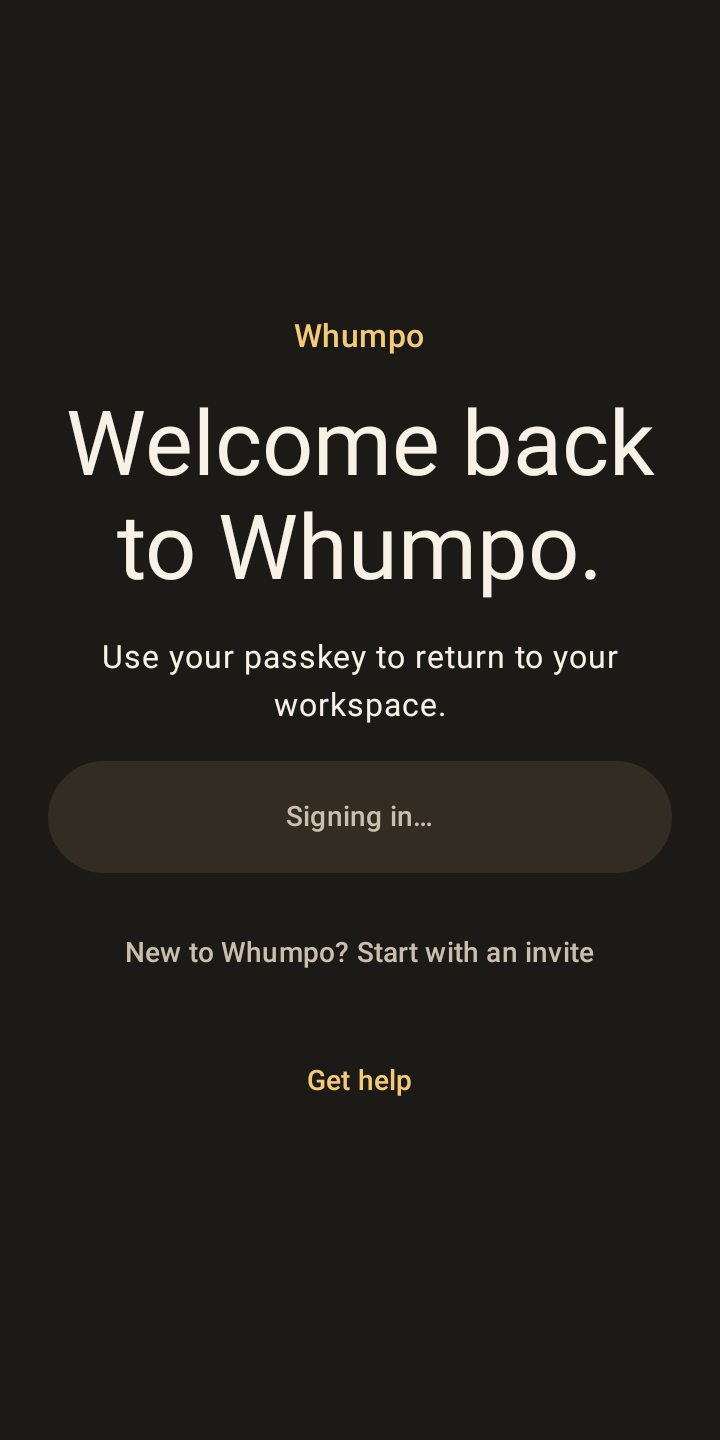
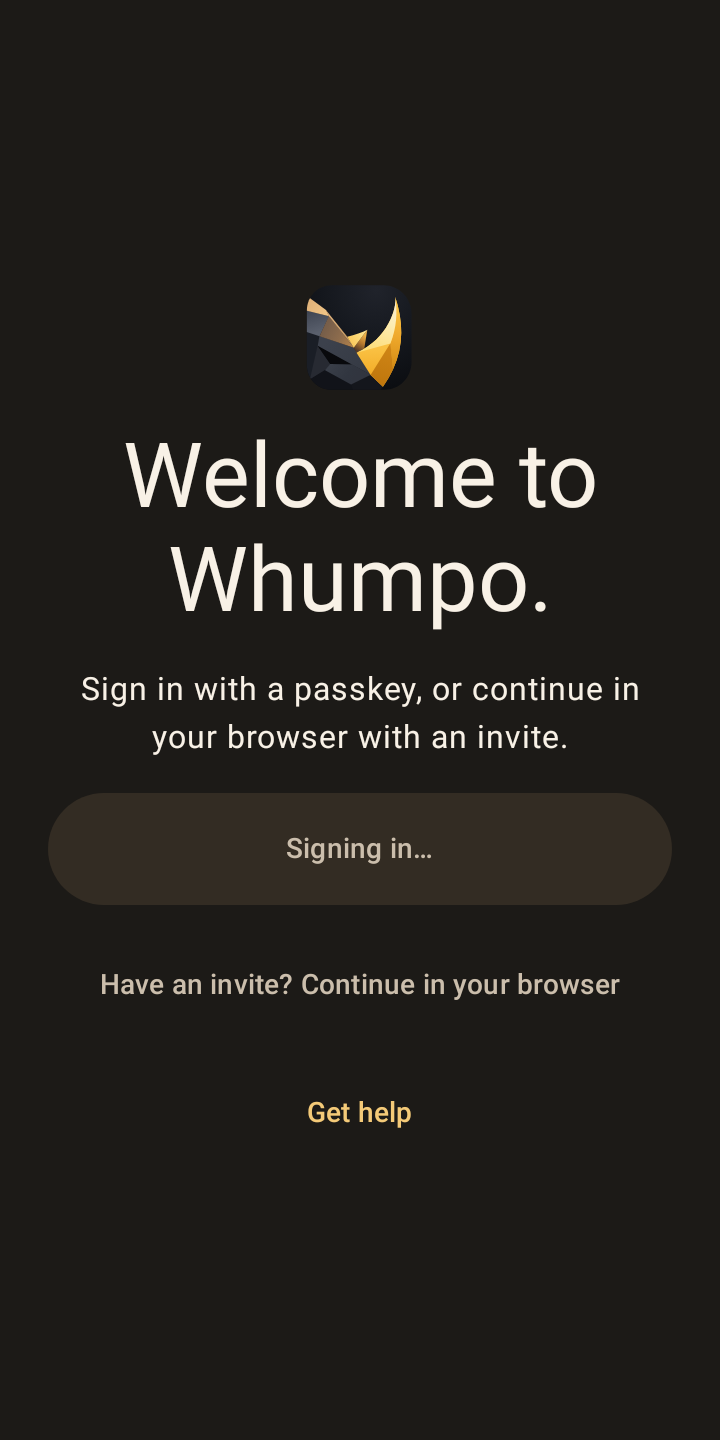
Improve Android welcome and invite retry (#66)

diff --git a/android/shared/src/jvmCommonTest/kotlin/com/whumpo/core/auth/AuthControllerTest.kt b/android/shared/src/jvmCommonTest/kotlin/com/whumpo/core/auth/AuthControllerTest.kt
@@ -16,12 +16,17 @@ import java.io.IOException
 import java.time.Instant
 import java.util.concurrent.CopyOnWriteArrayList
 import kotlinx.coroutines.CompletableDeferred
+import kotlinx.coroutines.Job
 import kotlinx.coroutines.Dispatchers
 import kotlinx.coroutines.ExperimentalCoroutinesApi
 import kotlinx.coroutines.NonCancellable
 import kotlinx.coroutines.launch
 import kotlinx.coroutines.delay
 import kotlinx.coroutines.withContext
+import kotlin.coroutines.Continuation
+import kotlin.coroutines.CoroutineContext
+import kotlin.coroutines.startCoroutine
+import kotlin.coroutines.cancellation.CancellationException
 import kotlinx.coroutines.flow.first
 import kotlinx.coroutines.test.TestScope
 import kotlinx.coroutines.test.UnconfinedTestDispatcher
@@ -103,6 +108,8 @@ class AuthControllerTest {
 
         /** path -> replacement status and body; `null` makes the request fail like a dropped connection. */
         val overrides = mutableMapOf<String, Pair<Int, String>?>()
+        var handoffStartGate: CompletableDeferred<Unit>? = null
+        var handoffStartEntered: CompletableDeferred<Unit>? = null
         var bootstrapGate: CompletableDeferred<Unit>? = null
         var bootstrapEntered: CompletableDeferred<Unit>? = null
         val store = AccountStateStore(dir, box)
@@ -115,6 +122,10 @@ class AuthControllerTest {
                 calls += Call(path, request.headers[HttpHeaders.Authorization], request.body.toByteArray().decodeToString())
                 val override = if (overrides.containsKey(path)) overrides[path] ?: throw IOException("connection dropped") else null
                 val (status, body) = override ?: (200 to checkNotNull(ok[path]) { "unexpected $path" })
+                if (path == "/session/handoff/start") {
+                    handoffStartEntered?.complete(Unit)
+                    withContext(NonCancellable) { handoffStartGate?.await() }
+                }
                 if (path == "/bootstrap") {
                     val gate = bootstrapGate
                     bootstrapEntered?.complete(Unit)
@@ -646,6 +657,103 @@ class AuthControllerTest {
         auth.startInvite()
         await(AuthState.WaitingForBrowser())
         assertEquals("signup", body("/session/handoff/start")["purpose"]!!.jsonPrimitive.content)
+    }
+
+    @Test
+    fun aGenericInviteStartFailureOffersAnExplicitFreshRetry() = test {
+        overrides["/session/handoff/start"] = 500 to err("gateway_failure")
+        auth.startInvite()
+        await(AuthState.SignedOut(AuthProblem.InviteStartFailed))
+        assertTrue(browser.opened.isEmpty())
+
+        val firstStart = body("/session/handoff/start")
+        overrides.remove("/session/handoff/start")
+        auth.startInvite()
+        await(AuthState.WaitingForBrowser())
+
+        val starts = calls.filter { it.path == "/session/handoff/start" }
+        assertEquals(2, starts.size)
+        val retry = Json.parseToJsonElement(starts.last().body).jsonObject
+        assertEquals("signup", retry["purpose"]!!.jsonPrimitive.content)
+        assertFalse(firstStart["state"] == retry["state"])
+        assertFalse(firstStart["codeChallenge"] == retry["codeChallenge"])
+        assertEquals(listOf("https://whumpo.com$browserPath"), browser.opened.toList())
+    }
+
+    @Test
+    fun aGenericSigninHandoffFailureKeepsTheExistingCopy() = test {
+        overrides["/session/handoff/start"] = 500 to err("gateway_failure")
+        auth.signInWithBrowser()
+        await(AuthState.SignedOut(AuthProblem.Generic))
+        assertTrue(browser.opened.isEmpty())
+    }
+
+    @Test
+    fun inviteStartKeepsKnownNetworkAndAuthorityFailuresDistinct() = test {
+        overrides["/session/handoff/start"] = null
+        auth.startInvite()
+        await(AuthState.SignedOut(AuthProblem.Network))
+
+        overrides["/session/handoff/start"] = 429 to err("rate_limited", "\"retryAfterSeconds\":60")
+        auth.startInvite()
+        await(AuthState.SignedOut(AuthProblem.RateLimited))
+
+        overrides["/session/handoff/start"] = 503 to err("unavailable")
+        auth.startInvite()
+        await(AuthState.SignedOut(AuthProblem.ServiceUnavailable))
+
+        overrides["/session/handoff/start"] = 401 to err("proof_required", "\"proof\":\"signin\"")
+        auth.startInvite()
+        await(AuthState.SignedOut(AuthProblem.Rejected))
+
+        overrides["/session/handoff/start"] = 403 to err("identity_incomplete", "\"next\":\"browser\"")
+        auth.startInvite()
+        await(AuthState.FinishSetup(canOpen = true))
+
+        overrides["/session/handoff/start"] = 426 to err("client_update_required")
+        auth.startInvite()
+        await(AuthState.UpdateRequired)
+
+        overrides["/session/handoff/start"] = 409 to err("identity_changed")
+        auth.startInvite()
+        await(AuthState.SignedOut(AuthProblem.Generic))
+        assertTrue(browser.opened.isEmpty())
+    }
+
+    @Test
+    fun aLateGenericInviteFailureCannotReplaceASignedOutState() = test {
+        overrides["/session/handoff/start"] = 500 to err("gateway_failure")
+        handoffStartGate = CompletableDeferred()
+        handoffStartEntered = CompletableDeferred()
+
+        auth.startInvite()
+        handoffStartEntered!!.await()
+        withContext(Dispatchers.Default) { auth.signOutNow() }
+        assertEquals(AuthState.SignedOut(), auth.state.value)
+
+        handoffStartGate!!.complete(Unit)
+        settle()
+        assertEquals(AuthState.SignedOut(), auth.state.value)
+        assertTrue(browser.opened.isEmpty())
+    }
+
+    @Test
+    fun aCancelledInviteErrorCannotPublishIntoTheCurrentControllerState() = test {
+        started()
+        val cancelledJob = Job().apply { cancel() }
+        var completion: Result<Unit>? = null
+        val publishFailure: suspend () -> Unit = { auth.publishInviteStartFailure(AuthProblem.InviteStartFailed) }
+        publishFailure.startCoroutine(
+            object : Continuation<Unit> {
+                override val context: CoroutineContext = cancelledJob
+                override fun resumeWith(result: Result<Unit>) {
+                    completion = result
+                }
+            },
+        )
+
+        assertTrue(completion?.exceptionOrNull() is CancellationException)
+        assertEquals(AuthState.SignedOut(), auth.state.value)
     }
 
     @Test

diff --git a/android/shared/src/commonMain/kotlin/com/whumpo/android/ui/auth/AuthScreens.kt b/android/shared/src/commonMain/kotlin/com/whumpo/android/ui/auth/AuthScreens.kt
@@ -15,6 +15,7 @@ import androidx.compose.foundation.layout.widthIn
 import androidx.compose.foundation.layout.windowInsetsPadding
 import androidx.compose.foundation.rememberScrollState
 import androidx.compose.foundation.verticalScroll
+import androidx.compose.foundation.Image
 import androidx.compose.material3.Card
 import androidx.compose.material3.CardDefaults
 import androidx.compose.material3.Icon
@@ -44,6 +45,9 @@ import com.whumpo.android.ui.theme.WhumpoSecondaryButton
 import com.whumpo.core.auth.AuthActions
 import com.whumpo.core.auth.AuthProblem
 import com.whumpo.core.auth.AuthState
+import com.whumpo.shared.resources.Res
+import com.whumpo.shared.resources.whumpo_horn_mark
+import org.jetbrains.compose.resources.painterResource
 
 private val Target = 56.dp
 private val QuietTarget = 48.dp
@@ -75,9 +79,13 @@ fun WelcomeScreen(state: AuthState.SignedOut, actions: AuthActions, modifier: Mo
     WhumpoEntryTheme(darkTheme = dark) {
         Surface(Modifier.fillMaxSize()) {
             AuthPage(modifier.testTag("auth-welcome")) {
-                Text("Whumpo", style = MaterialTheme.typography.titleMedium, color = MaterialTheme.colorScheme.primary)
-                Title("Welcome back to Whumpo.", display = true)
-                Body("Use your passkey to return to your workspace.")
+                Image(
+                    painter = painterResource(Res.drawable.whumpo_horn_mark),
+                    contentDescription = null,
+                    modifier = Modifier.size(56.dp).testTag("auth-brand-mark"),
+                )
+                Title("Welcome to Whumpo.", display = true)
+                Body("Sign in with a passkey, or continue in your browser with an invite.")
                 state.problem?.let { ProblemCard(it) }
                 WhumpoPrimaryButton(
                     onClick = actions::signInWithPasskey,
@@ -110,7 +118,7 @@ fun WelcomeScreen(state: AuthState.SignedOut, actions: AuthActions, modifier: Mo
                     onClick = actions::startInvite,
                     enabled = !state.busy,
                     modifier = Modifier.heightIn(min = QuietTarget).testTag("auth-invite"),
-                ) { Text("New to Whumpo? Start with an invite") }
+                ) { Text("Have an invite? Continue in your browser") }
                 WhumpoQuietButton(onClick = actions::openHelp, modifier = Modifier.heightIn(min = QuietTarget).testTag("auth-help")) {
                     Text("Get help")
                 }
@@ -243,6 +251,7 @@ internal fun problemCopy(problem: AuthProblem): Pair<String, String> = when (pro
     AuthProblem.HandoffFailed -> "The browser sign-in didn't finish." to "Nothing was changed. Start again."
     AuthProblem.NoBrowser -> "No browser could open." to "Nothing was changed. Install or enable a browser, then try again."
     AuthProblem.CredentialTooLarge -> "This passkey's response was too large to send." to "Nothing was changed. Try another passkey, or sign in through the browser."
+    AuthProblem.InviteStartFailed -> "We couldn't start your invite." to "Your account is unchanged. Try again to continue in your browser."
     AuthProblem.Generic -> "Something went wrong." to "Nothing was changed. Try again."
 }
 

diff --git a/android/shared/src/jvmCommonMain/kotlin/com/whumpo/core/auth/AuthController.kt b/android/shared/src/jvmCommonMain/kotlin/com/whumpo/core/auth/AuthController.kt
@@ -198,13 +198,26 @@ class AuthController(
 
     override fun startInvite() = launchStep {
         step.value = Step.Busy
-        startHandoff("signup")
+        startHandoff("signup", genericProblem = AuthProblem.InviteStartFailed)
     }
 
-    private suspend fun startHandoff(purpose: String) {
+    private suspend fun startHandoff(purpose: String, genericProblem: AuthProblem? = null) {
         val verifier = Pkce.newVerifier()
         val state = Pkce.newState()
-        val response = api.handoffStart(HandoffStartRequest(purpose, state, Pkce.challenge(verifier), RETURN_URI))
+        val response = try {
+            api.handoffStart(HandoffStartRequest(purpose, state, Pkce.challenge(verifier), RETURN_URI))
+        } catch (e: CancellationException) {
+            throw e
+        } catch (e: MobileApiException) {
+            if (genericProblem == null || e.isDistinctHandoffProblem()) throw e
+            publishInviteStartFailure(genericProblem)
+            return
+        } catch (e: Exception) {
+            if (genericProblem == null) throw e
+            currentCoroutineContext().ensureActive()
+            step.value = Step.Problem(genericProblem)
+            return
+        }
         currentCoroutineContext().ensureActive()
         val url = browserUrl(response.browserPath)
         if (url == null) {
@@ -389,6 +402,26 @@ class AuthController(
         is MobileApiException.Unavailable -> AuthProblem.ServiceUnavailable
         is MobileApiException.ProofRequired -> AuthProblem.Rejected
         else -> AuthProblem.Generic
+    }
+
+    /** Keep contract statuses that carry authentication, update, network, or service authority intact. */
+    private fun MobileApiException.isDistinctHandoffProblem(): Boolean = when (this) {
+        is MobileApiException.ClientUpdateRequired,
+        is MobileApiException.IdentityIncomplete,
+        is MobileApiException.OnboardingRequired,
+        is MobileApiException.IdentityChanged,
+        is MobileApiException.ProofRequired,
+        is MobileApiException.Transport,
+        is MobileApiException.RateLimited,
+        is MobileApiException.Unavailable,
+        -> true
+        else -> false
+    }
+
+    /** A generic invite error is only current while its launch step still owns this controller. */
+    internal suspend fun publishInviteStartFailure(problem: AuthProblem) {
+        currentCoroutineContext().ensureActive()
+        step.value = Step.Problem(problem)
     }
 
     private fun tooLarge(json: String) = json.toByteArray(Charsets.UTF_8).size > MAX_CREDENTIAL_BYTES

diff --git a/android/shared/src/androidHostTest/kotlin/com/whumpo/android/ui/AuthScreensTest.kt b/android/shared/src/androidHostTest/kotlin/com/whumpo/android/ui/AuthScreensTest.kt
@@ -56,13 +56,38 @@ class AuthScreensTest : RobolectricUiTest() {
     fun welcomeHasOneHeadingOnePrimaryAndQuietLinks() {
         val actions = RecordingActions()
         show(AuthState.SignedOut(), actions).use {
-            compose.onNode(isHeading() and hasText("Welcome back to Whumpo.")).assertIsDisplayed()
+            compose.onNodeWithTag("auth-brand-mark").assertIsDisplayed()
+            compose.onNode(isHeading() and hasText("Welcome to Whumpo.")).assertIsDisplayed()
+            compose.onNode(hasText("Sign in with a passkey, or continue in your browser with an invite.")).assertIsDisplayed()
             compose.onNodeWithTag("auth-sign-in").assertHeightIsAtLeast(48.dp).assertIsEnabled().performClick()
             compose.onNodeWithTag("auth-invite").assertHeightIsAtLeast(48.dp).performClick()
             compose.onNodeWithTag("auth-help").assertHeightIsAtLeast(48.dp).performClick()
             absent("auth-problem"); absent("auth-browser"); absent("auth-preview")
         }
         assertEquals(listOf("passkey", "invite", "help"), actions.calls)
+    }
+
+    @Test
+    fun inviteStartFailureExplainsTheBrowserRetryAndKeepsTheActionAvailable() {
+        val actions = RecordingActions()
+        show(AuthState.SignedOut(AuthProblem.InviteStartFailed), actions).use {
+            compose.onNodeWithTag("auth-problem").assert(polite).assertIsDisplayed()
+            compose.onNode(hasText("We couldn't start your invite.")).assertIsDisplayed()
+            compose.onNode(hasText("Your account is unchanged. Try again to continue in your browser.")).assertIsDisplayed()
+            compose.onNodeWithTag("auth-invite").assertIsEnabled().performClick()
+        }
+        assertEquals(listOf("invite"), actions.calls)
+    }
+
+    @Test
+    fun inviteRetryRemainsReachableAtLargeText() {
+        val actions = RecordingActions()
+        show(AuthState.SignedOut(AuthProblem.InviteStartFailed), actions, font = 2f).use {
+            compose.onNodeWithTag("auth-problem").assertIsDisplayed()
+            compose.onNodeWithTag("auth-invite").performScrollTo().assertHeightIsAtLeast(48.dp).assertIsEnabled().performClick()
+            compose.onNodeWithTag("auth-help").performScrollTo().assertHeightIsAtLeast(48.dp).assertIsDisplayed()
+        }
+        assertEquals(listOf("invite"), actions.calls)
     }
 
     @Test

diff --git a/android/shared/src/androidHostTest/kotlin/com/whumpo/android/ui/AuthScreenshotTest.kt b/android/shared/src/androidHostTest/kotlin/com/whumpo/android/ui/AuthScreenshotTest.kt
@@ -25,6 +25,7 @@ class AuthScreenshotTest : RobolectricUiTest() {
         "auth-welcome-no-passkey" to { AuthFlow(AuthState.SignedOut(AuthProblem.NoPasskey), RecordingActions()) },
         "auth-welcome-network" to { AuthFlow(AuthState.SignedOut(AuthProblem.Network), RecordingActions()) },
         "auth-welcome-session-ended" to { AuthFlow(AuthState.SignedOut(AuthProblem.SessionEnded), RecordingActions()) },
+        "auth-welcome-invite-start-failed" to { AuthFlow(AuthState.SignedOut(AuthProblem.InviteStartFailed), RecordingActions()) },
         "auth-waiting" to { AuthFlow(AuthState.WaitingForBrowser(), RecordingActions()) },
         "auth-exchanging" to { AuthFlow(AuthState.WaitingForBrowser(exchanging = true), RecordingActions()) },
         "auth-finish-setup" to { AuthFlow(AuthState.FinishSetup(canCheck = true, canOpen = true), RecordingActions()) },
@@ -39,7 +40,7 @@ class AuthScreenshotTest : RobolectricUiTest() {
 
     @Test
     fun signInScreensAtLargeText() {
-        for ((name, scene) in scenes.filter { it.first in setOf("auth-welcome-no-passkey", "auth-finish-setup") }) {
+        for ((name, scene) in scenes.filter { it.first in setOf("auth-welcome-no-passkey", "auth-welcome-invite-start-failed", "auth-finish-setup") }) {
             capture(name, Screen.Compact, dark = false, fontScale = 2f, content = scene)
         }
     }

diff --git a/android/androidApp/src/androidTest/kotlin/com/whumpo/android/NavigationTest.kt b/android/androidApp/src/androidTest/kotlin/com/whumpo/android/NavigationTest.kt
@@ -54,7 +54,7 @@ class NavigationTest {
     fun signedOutShowsWelcomeInsteadOfTheShell() {
         Fixtures.reset()
         compose.waitUntil(5_000) { compose.onAllNodesWithTag("auth-sign-in").fetchSemanticsNodes().isNotEmpty() }
-        compose.onNode(isHeading() and hasText("Welcome back to Whumpo.")).assertIsDisplayed()
+        compose.onNode(isHeading() and hasText("Welcome to Whumpo.")).assertIsDisplayed()
         compose.onNodeWithTag("nav-chat").assertDoesNotExist()
     }
 

diff --git a/android/androidApp/src/androidTest/kotlin/com/whumpo/android/CoreLauncherTest.kt b/android/androidApp/src/androidTest/kotlin/com/whumpo/android/CoreLauncherTest.kt
@@ -330,7 +330,7 @@ class CoreLauncherTest {
         .setAction(Intent.ACTION_MAIN).addCategory(Intent.CATEGORY_LAUNCHER))
 
     private fun awaitLegacyEntry() {
-        awaitText("Welcome back to Whumpo.")
+        awaitText("Welcome to Whumpo.")
         compose.onNodeWithTag("auth-sign-in").assertIsDisplayed()
         compose.onNodeWithText("Open Core sign-in").assertDoesNotExist()
     }

diff --git a/android/shared/src/commonMain/kotlin/com/whumpo/core/auth/AuthState.kt b/android/shared/src/commonMain/kotlin/com/whumpo/core/auth/AuthState.kt
@@ -23,6 +23,8 @@ enum class AuthProblem {
 
     /** Credential Manager's response is over the contract's 8 KiB limit; nothing was sent. */
     CredentialTooLarge,
+    /** A signup hand-off could not start; retrying starts a fresh browser hand-off. */
+    InviteStartFailed,
     Generic,
 }
 
